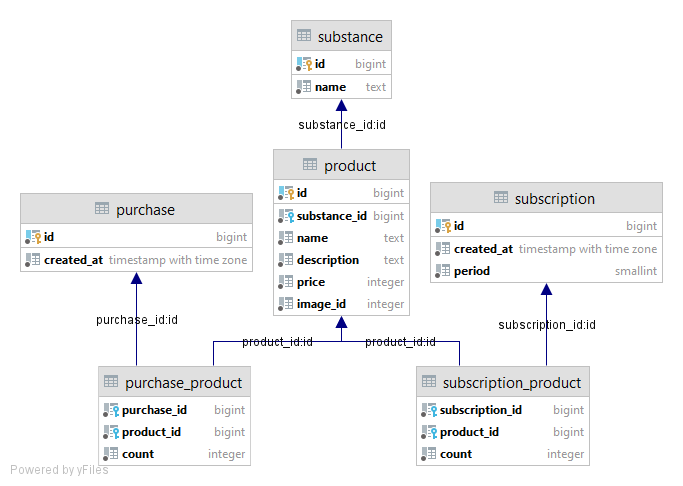
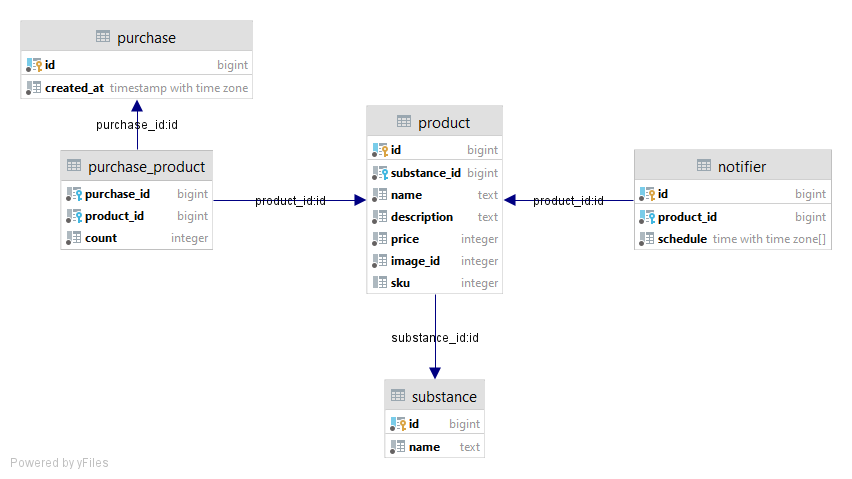
save point

diff --git a/cmd/eapteka/main.go b/cmd/eapteka/main.go
@@ -30,6 +30,8 @@ import (
 func main() {
 	pgDSN := os.Getenv("POSTGRES_DSN")
 	bindAddr := os.Getenv("BIND_ADDR")
+	tlsCert := os.Getenv("TLS_CERT")
+	tlsKey := os.Getenv("TLS_KEY")
 
 	db, err := sqlx.Open("postgres", pgDSN)
 	if err != nil {
@@ -201,9 +203,9 @@ func main() {
 
 		err = db.Select(&ps, `
 			select substance_id, p.name as name, description, price, image_id,
-				        s.name as substance_name, count
-			from purchase_product
-			    left join product p on purchase_product.product_id = p.id
+				        s.name as substance_name, count, pp.price as purchase_price 
+			from purchase_product pp
+			    left join product p on pp.product_id = p.id
 			    left join substance s on s.id = p.substance_id
 			where purchase_id = $1`, purchaseID)
 		if err != nil {
@@ -243,9 +245,9 @@ func main() {
 		var pIDs []int64
 		for _, pp := range pps {
 			_, err = tx.Exec(`
-				insert into purchase_product(purchase_id, product_id, count)
+				insert into purchase_product(purchase_id, product_id, count, price)
  				values ($1, $2, $3)
-			`, p.ID, pp.ProductID, pp.Count)
+			`, p.ID, pp.ProductID, pp.Count, pp.Price)
 			if err != nil {
 				return err
 			}
@@ -264,17 +266,14 @@ func main() {
 	})
 
 	ws.Use("/pics", filesystem.New(filesystem.Config{
-		Next: func(c *fiber.Ctx) bool {
-			path := string(c.Request().URI().Path())
-			return strings.HasPrefix(path, "/api/")
-		},
 		Root: http.FS(pics.FS),
 	}))
 
 	ws.Use(filesystem.New(filesystem.Config{
 		Next: func(c *fiber.Ctx) bool {
 			path := string(c.Request().URI().Path())
-			return strings.HasPrefix(path, "/api/") || strings.HasPrefix(path, "/pics/")
+			return strings.HasPrefix(path, "/api/") ||
+				strings.HasPrefix(path, "/pics/")
 		},
 		Root:         http.FS(ui.FS),
 		Index:        "index.html",
@@ -284,14 +283,24 @@ func main() {
 
 	var wg sync.WaitGroup
 
-	wg.Add(1)
-	go func() {
-		defer wg.Done()
-		err := ws.Listen(bindAddr)
-		if err != nil && !errors.Is(err, http.ErrServerClosed) {
-			logrus.WithError(err).Fatal("failed to start web server")
-		}
-	}()
+	if tlsCert != "" && tlsKey != "" {
+		go func() {
+			defer wg.Done()
+			err := ws.ListenTLS(bindAddr, tlsCert, tlsKey)
+			if err != nil && !errors.Is(err, http.ErrServerClosed) {
+				logrus.WithError(err).Fatal("failed to start web server")
+			}
+		}()
+	} else {
+		wg.Add(1)
+		go func() {
+			defer wg.Done()
+			err := ws.Listen(bindAddr)
+			if err != nil && !errors.Is(err, http.ErrServerClosed) {
+				logrus.WithError(err).Fatal("failed to start web server")
+			}
+		}()
+	}
 
 	exit := make(chan os.Signal)
 	signal.Notify(exit, os.Interrupt, syscall.SIGTERM)

diff --git a/ent/ent.go b/ent/ent.go
@@ -13,6 +13,7 @@ type PurchaseProduct struct {
 	PurchaseID int64 `json:"purchase_id" db:"purchase_id"`
 	ProductID  int64 `json:"product_id" db:"product_id"`
 	Count      int32 `json:"count" db:"count"`
+	Price      int32 `json:"price" db:"price"`
 }
 
 type Product struct {
@@ -26,6 +27,7 @@ type Product struct {
 
 	SubstanceName *string `json:"substance_name" db:"substance_name"`
 	Count         int32   `json:"count,omitempty" db:"count"`
+	PurchasePrice int32   `json:"purchase_price" db:"purchase_price"`
 }
 
 type Substance struct {
